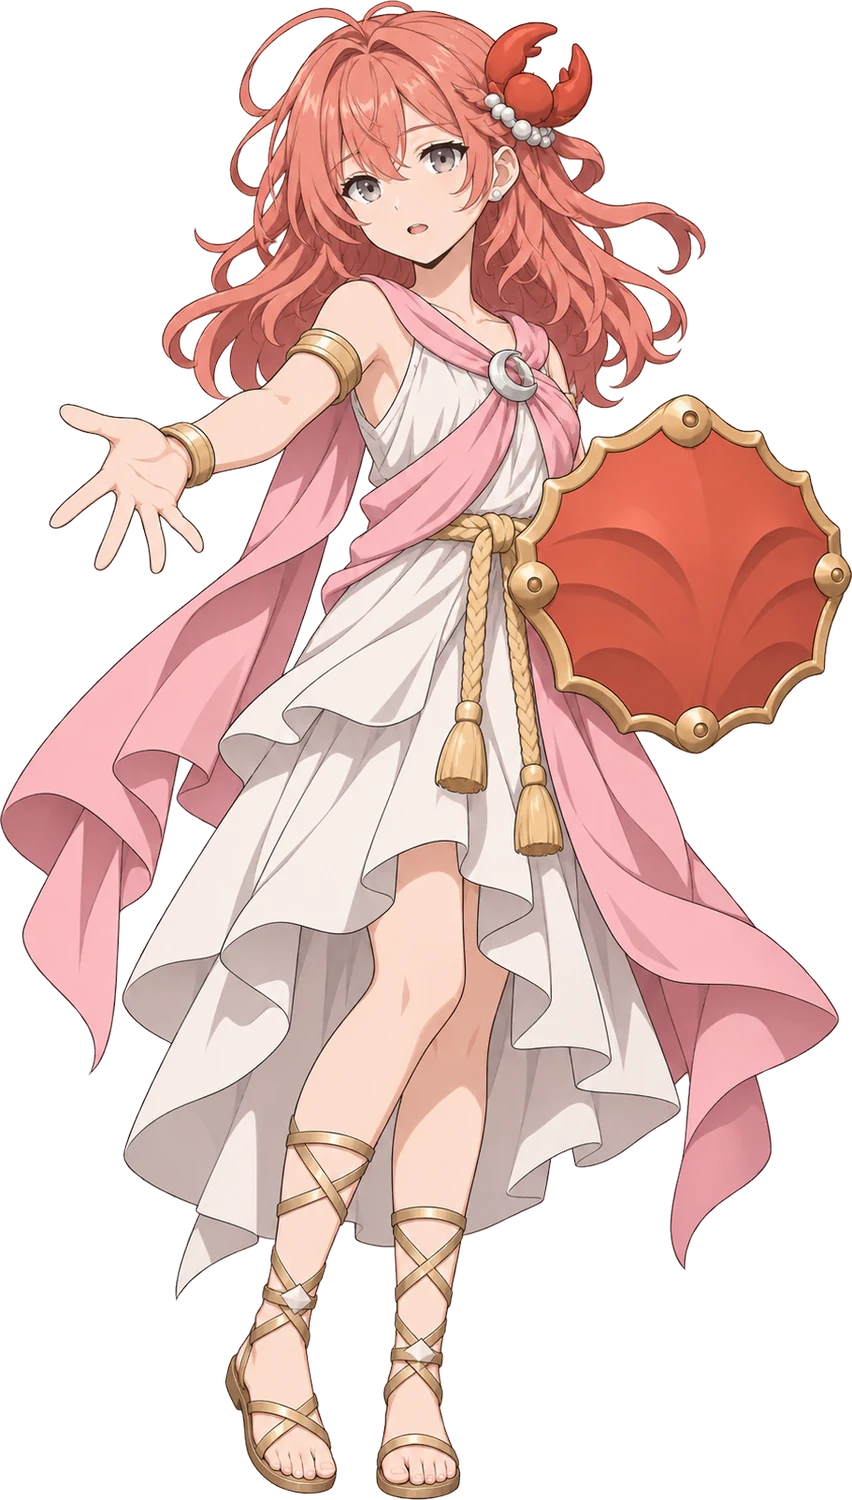
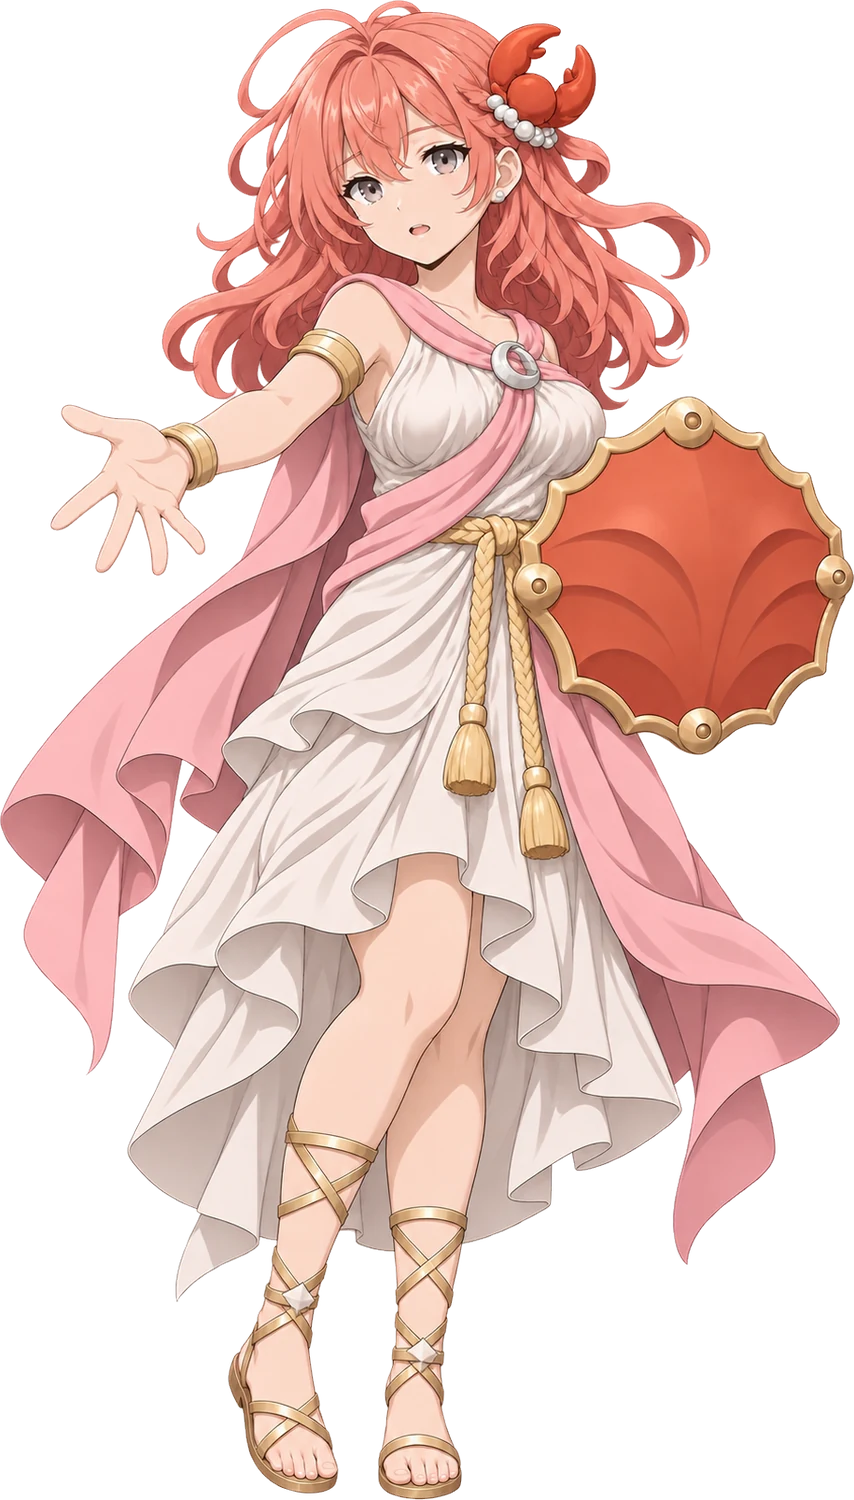
女性6人の立ち絵を描き直した絵に差し替える
Claude-Session: https://claude.ai/code/session_016fk9NvoXWiMDchST95bpzh

diff --git a/src/data/heroArt.ts b/src/data/heroArt.ts
@@ -34,7 +34,7 @@ export interface HeroArt {
 
 const art = (id: HeroId, width: number, headTop: number, headX: number, pose = 1): HeroArt => ({
   // 絵を差し替えたら v を上げる（端末や Pages に古い絵が残らないように）
-  file: `art/heroes/${id}.webp?v=4`,
+  file: `art/heroes/${id}.webp?v=5`,
   width,
   height: 1500,
   headTop,
@@ -47,17 +47,17 @@ export const HERO_ART_TENTATIVE = false;
 
 export const HERO_ART: Record<HeroId, HeroArt> = {
   aries: art('aries', 794, 0.01, 0.42),
-  taurus: art('taurus', 713, 0.06, 0.46),
+  taurus: art('taurus', 781, 0.045, 0.53),
   gemini: art('gemini', 947, 0.005, 0.5),
-  cancer: art('cancer', 852, 0.01, 0.46),
+  cancer: art('cancer', 854, 0.004, 0.43),
   leo: art('leo', 869, 0.01, 0.35),
-  virgo: art('virgo', 644, 0.02, 0.5),
-  libra: art('libra', 474, 0.005, 0.5),
+  virgo: art('virgo', 639, 0.01, 0.47),
+  libra: art('libra', 469, 0.003, 0.5),
   scorpio: art('scorpio', 849, 0.005, 0.42, 0.9),
-  sagittarius: art('sagittarius', 893, 0.035, 0.48),
+  sagittarius: art('sagittarius', 896, 0.025, 0.5),
   capricorn: art('capricorn', 666, 0.03, 0.46),
   aquarius: art('aquarius', 765, 0.005, 0.54),
-  pisces: art('pisces', 794, 0.01, 0.47),
+  pisces: art('pisces', 790, 0.015, 0.5),
 };
 
 /** いちばん背の高いキャラの背丈。並べたときの高さの基準 */
